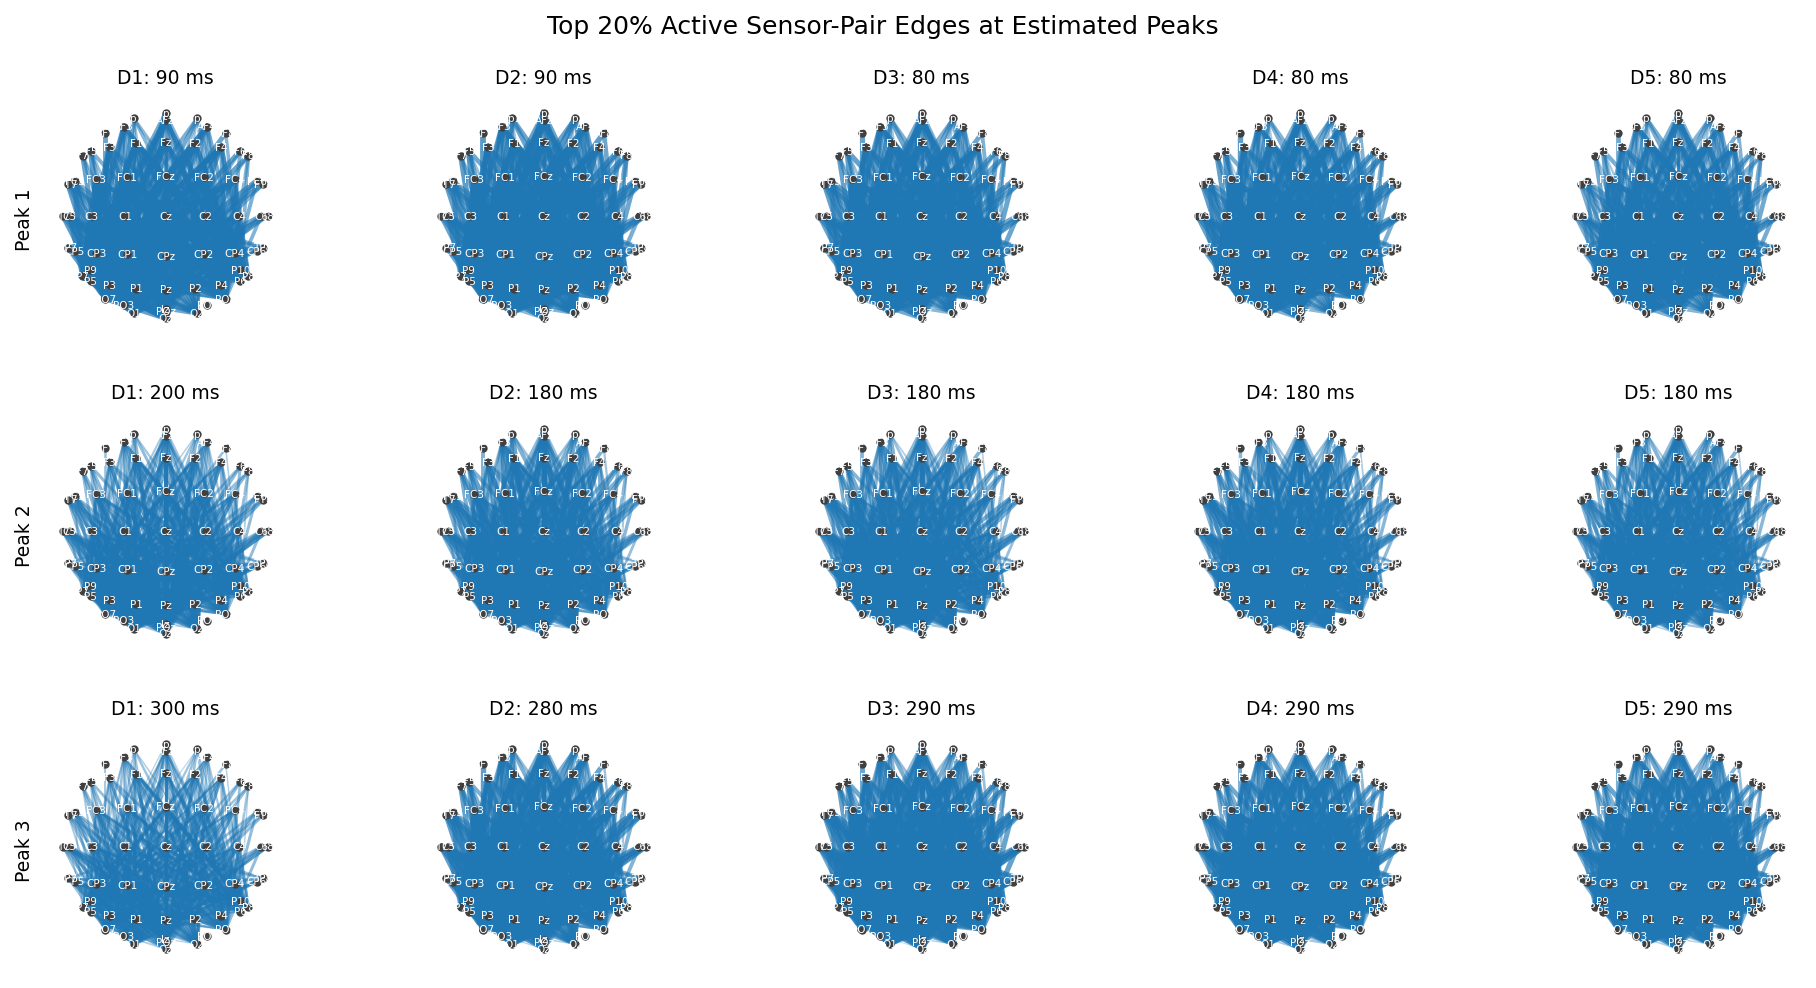
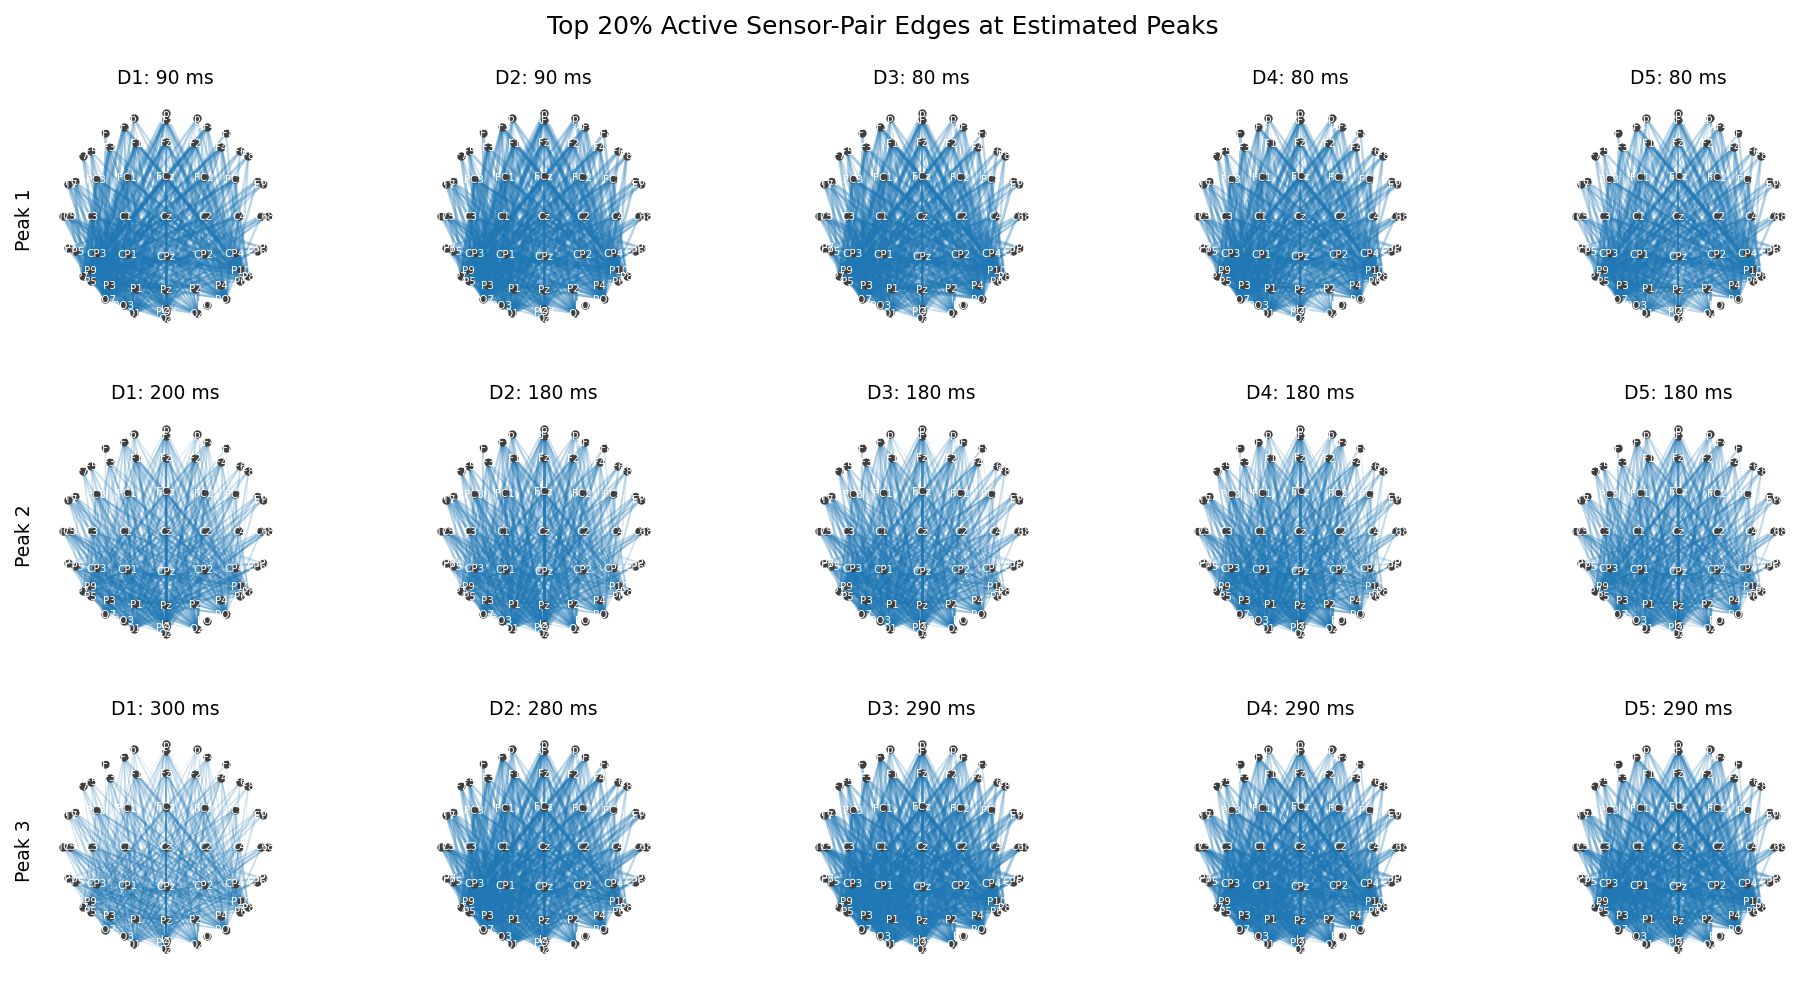
scale conect

diff --git a/code/connect_sensorwide_figure.py b/code/connect_sensorwide_figure.py
@@ -237,8 +237,8 @@ def draw_positive_edges(
             [ch_xy[pi, 0], ch_xy[pj, 0]],
             [ch_xy[pi, 1], ch_xy[pj, 1]],
             color="tab:blue",
-            linewidth=0.4 + 3.2 * scaled,
-            alpha=0.28 + 0.62 * scaled,
+            linewidth=0.25 + 1.8 * scaled,
+            alpha=0.10 + 0.45 * scaled,
             zorder=2,
         )
     format_edge_axis(ax)
@@ -273,6 +273,26 @@ def threshold_values_by_value(values, keep_prop):
     for idx, val in enumerate(values):
         if np.isfinite(val) and float(val) >= threshold:
             out[idx] = float(val)
+    return out
+
+
+def zscore_finite_values(values):
+    out = np.full(len(values), np.nan, dtype=float)
+    finite_vals = []
+    finite_idx = []
+    for idx, val in enumerate(values):
+        if np.isfinite(val):
+            finite_idx.append(idx)
+            finite_vals.append(float(val))
+    if len(finite_vals) < 2:
+        return out
+    arr = np.asarray(finite_vals, dtype=float)
+    std = float(np.std(arr))
+    if std <= np.finfo(float).eps:
+        return out
+    mean = float(np.mean(arr))
+    for arr_i, idx in enumerate(finite_idx):
+        out[idx] = (float(arr[arr_i]) - mean) / std
     return out
 
 
@@ -731,6 +751,78 @@ def plot_active_pair_day_pair_difference_edges(
         fig_path = figures_dir / (
             f"sensorwide_active_pair_day_pair_difference_edges_peak{peak_i}_"
             "top20_stim_broadband.png"
+        )
+        fig.savefig(fig_path, dpi=150, bbox_inches="tight")
+        plt.close(fig)
+        figure_paths.append(fig_path)
+    return figure_paths
+
+
+def plot_active_pair_day_pair_difference_edges_normalized(
+    day_data, pair_idx, lock_name, band_name, figures_dir, ch_xy, ch_names
+):
+    if lock_name != "stim" or band_name != "broadband":
+        raise ValueError(
+            "Normalized day-pair difference edge figure is only defined for "
+            "stim broadband"
+        )
+    days = sorted(day_data.keys())
+    peak_rows, active_pair_idx = compute_peak_edge_rows(day_data, pair_idx)
+    figure_paths = []
+    for peak_i in range(1, len(ACTIVE_PAIR_PEAK_WINDOWS) + 1):
+        z_rows = {}
+        for day in days:
+            vals = get_peak_row(peak_rows, day, peak_i)["pair_vals"]
+            z_rows[day] = zscore_finite_values(vals)
+
+        all_vals = []
+        for day_i in days:
+            vals_i = z_rows[day_i]
+            for day_j in days:
+                if day_i == day_j:
+                    continue
+                vals_j = z_rows[day_j]
+                vals = vals_i - vals_j
+                for val in vals:
+                    if np.isfinite(val):
+                        all_vals.append(float(val))
+        vlim = finite_abs_max(all_vals)
+        fig, axes = plt.subplots(
+            len(days),
+            len(days),
+            figsize=(2.15 * len(days), 2.15 * len(days)),
+            squeeze=False,
+        )
+        for row_i, day_i in enumerate(days):
+            vals_i = z_rows[day_i]
+            for col_j, day_j in enumerate(days):
+                ax = axes[row_i, col_j]
+                if day_i == day_j:
+                    ax.axis("off")
+                    continue
+                vals_j = z_rows[day_j]
+                vals = vals_i - vals_j
+                draw_signed_edges(
+                    ax, vals, active_pair_idx, pair_idx, ch_xy, ch_names, vlim
+                )
+                if row_i == 0:
+                    ax.set_title(f"- D{day_j}", fontsize=8)
+                if col_j == 0:
+                    ax.set_ylabel(f"D{day_i}", fontsize=8)
+        fig.suptitle(
+            f"Top 20% Z-Normalized Day-Pair Edge Differences: Peak {peak_i}"
+        )
+        fig.subplots_adjust(
+            top=0.92,
+            bottom=0.03,
+            left=0.05,
+            right=0.99,
+            wspace=0.08,
+            hspace=0.08,
+        )
+        fig_path = figures_dir / (
+            "sensorwide_active_pair_day_pair_difference_edges_normalized_"
+            f"peak{peak_i}_top20_stim_broadband.png"
         )
         fig.savefig(fig_path, dpi=150, bbox_inches="tight")
         plt.close(fig)
@@ -1529,6 +1621,17 @@ def save_fig_sensorwide_connectivity(
                 )
                 figure_paths.append(fig_path)
                 new_paths = plot_active_pair_day_pair_difference_edges(
+                    day_data,
+                    pair_idx,
+                    lock_name,
+                    band_name,
+                    figures_dir,
+                    ch_xy,
+                    channel_subset,
+                )
+                for fig_path in new_paths:
+                    figure_paths.append(fig_path)
+                new_paths = plot_active_pair_day_pair_difference_edges_normalized(
                     day_data,
                     pair_idx,
                     lock_name,
